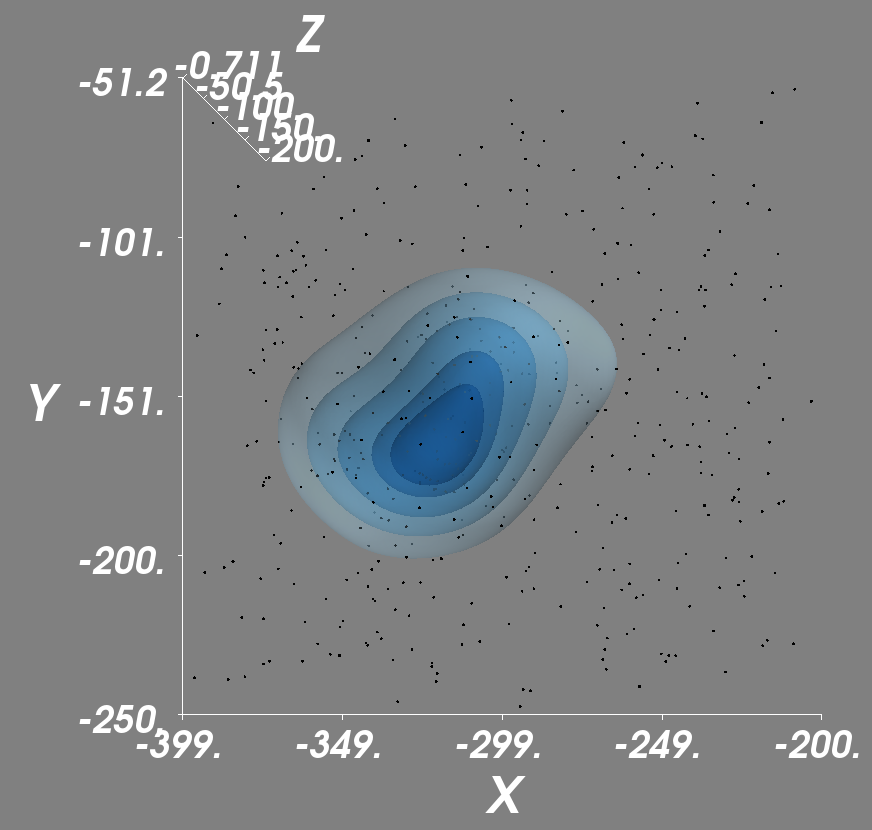
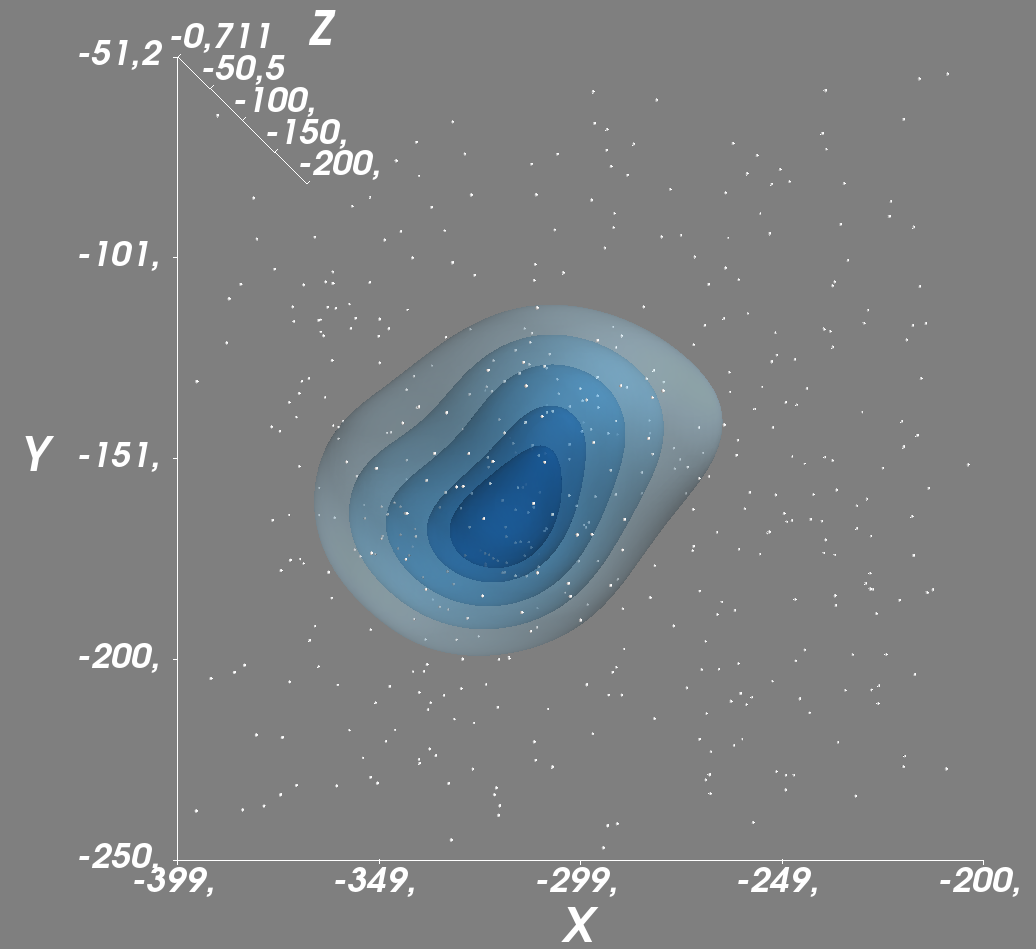
Analyzing kinematics

diff --git a/UVW-KDE-Dens-Masked.py b/UVW-KDE-Dens-Masked.py
@@ -4,6 +4,7 @@ from astropy.units import Quantity
 from astropy.table import Table
 from sklearn.neighbors import KernelDensity
 from mayavi import mlab
+import matplotlib.pyplot as plt
 import astropy.coordinates as asc
 import numpy as np
 import random
@@ -31,7 +32,7 @@ positions = np.vstack([VX.ravel(), VY.ravel(), VZ.ravel()])
 dens = np.reshape(np.exp(kde_fit.score_samples(positions.T)), VX.shape)
 """
 
-readresults_OD = Table.read('Velacontour4.5e10-7.dat',format='ascii')
+readresults_OD = Table.read('Data/OBRegions/A-OB-vrad-maxvtan40-mean_AG_EBminR/Orioncontour6.0e10-7.dat',format='ascii')
 results_OD = np.array(readresults_OD)
 
 x_OD, y_OD, z_OD, vx_OD, vy_OD, vz_OD = results_OD['xg'], results_OD['yg'], results_OD['zg'], results_OD['vx']+14.0, results_OD['vy']+12.24, results_OD['vz']+7.25
@@ -53,12 +54,29 @@ dens_OD = np.reshape(np.exp(kde_fit_OD.score_samples(positions_OD.T)), VX_OD.sha
 figure = mlab.figure('myfig')
 figure.scene.disable_render = True # Super duper trick
 #mlab.contour3d(VX, VY, VZ, dens, contours=[0.25*10**-5,0.5*10**-5,1*10**-5,2*10**-5,2.5*10**-5,3*10**-5], opacity=0.3, colormap = 'Blues', figure = figure)
-mlab.contour3d(VX_OD, VY_OD, VZ_OD, dens_OD, contours=[0.1*10**-4,0.5*10**-4,1*10**-4,1.5*10**-4,2*10**-4,2.5*10**-4], opacity=0.3, vmin=np.min(dens_OD), vmax=np.max(dens_OD), colormap = 'Reds', figure = figure)
-mlab.axes(xlabel='U (km/s)', ylabel='V (km/s)', zlabel='W (km/s)', nb_labels = 3, figure = figure)
+mlab.contour3d(VX_OD, VY_OD, VZ_OD, dens_OD, contours=[0.1*10**-4,0.5*10**-4,1*10**-4,1.5*10**-4,2*10**-4,2.5*10**-4,5*10**-4], opacity=0.3, vmin=np.min(dens_OD), vmax=np.max(dens_OD), colormap = 'Reds', figure = figure)
+mlab.axes(xlabel='U (km/s)', ylabel='V (km/s)', zlabel='W (km/s)', nb_labels = 5, figure = figure)
 #mlab.quiver3d(x, y, z, vx, vy, vz)
 
 #mlab.axes(extent = [-650, 650, -650, 650, -650, 650], ranges = [-650, 650, -650, 650, -650, 650], nb_labels = 7, figure = figure)
-mlab.points3d(vx_OD, vy_OD, vz_OD, np.full(len(vx_OD),1), scale_factor = 1, color=(0,0,0), figure = figure)
+mlab.points3d(vx_OD, vy_OD, vz_OD, np.full(len(vx_OD),1), scale_factor = 1, color=(1,1,1), figure = figure)
+
 
 figure.scene.disable_render = False # Super duper trick
 mlab.show()
+
+fig, axs = plt.subplots(1, 3, sharey=True, tight_layout=True)
+
+# We can set the number of bins with the `bins` kwarg
+axs[0].hist(vx_OD, bins=10)
+axs[1].hist(vy_OD, bins=10)
+axs[2].hist(vz_OD, bins=10)
+
+xlabel = ['U (km/s)', 'V (km/s)', 'W (km/s)']
+ticks = [range(-40,100,20), range(-50,50,25), range(-20,30,10)]
+i=0
+for ax in axs:
+    ax.set(xlabel=xlabel[i], ylabel='Counts', xticks = ticks[i])
+    i+=1
+
+plt.savefig('1D-Histograms-UVW-Orioncontour6.0e10-7.png')

diff --git a/KDE-Dens-Masked.py b/KDE-Dens-Masked.py
@@ -17,7 +17,7 @@ x_OB, y_OB, z_OB = ob['xg'], ob['yg'], ob['zg']
 OB_Names = ob['OB_Names']
 """
 
-readresults2 = Table.read('Data/OBRegions/A-OB-vrad-maxvtan40-mean_AG_EBminR/ScoCencontour7.5e10-8.dat',format='ascii')
+readresults2 = Table.read('Data/OBRegions/A-OB-vrad-maxvtan40-mean_AG_EBminR/Velacontour2.0e10-7.dat',format='ascii')
 results2 = np.array(readresults2)
 
 x_OD, y_OD, z_OD, vx_OD, vy_OD, vz_OD = results2['xg'], results2['yg'], results2['zg'], results2['vx']+14.0, results2['vy']+12.24, results2['vz']+7.25
@@ -31,11 +31,11 @@ results = np.array(readresults)
 x, y, z, vx, vy, vz = results['xg'], results['yg'], results['zg'], results['vx'], results['vy'], results['vz']
 
 xmin=-150
-xmax=200
-ymin=-275
-ymax=75
-zmin=-175
-zmax=175
+xmax=50
+ymin=-500
+ymax=-300
+zmin=-100
+zmax=100
 
 x_cube = x[np.where((x>=xmin)&(x<=xmax)&(y>=ymin)&(y<=ymax)&(z>=zmin)&(z<=zmax))]
 y_cube = y[np.where((x>=xmin)&(x<=xmax)&(y>=ymin)&(y<=ymax)&(z>=zmin)&(z<=zmax))]
@@ -61,12 +61,12 @@ w = int(boxes.imag/2)
 figure = mlab.figure('myfig')
 figure.scene.disable_render = True # Super duper trick
 #mlab.contour3d(X, Y, Z, dens, extent = [-650, 650, -650, 650, -650, 650], opacity=0.3, colormap = 'Blues', figure = figure)
-mlab.contour3d(X, Y, Z, dens, contours=[7.5*10**-8,8*10**-8,10*10**-8,12*10**-8], opacity=0.3, vmin=np.min(dens), vmax=np.max(dens), colormap = 'Blues', figure = figure)
+mlab.contour3d(X, Y, Z, dens, contours=[2*10**-7,2.5*10**-7,3.5*10**-7,4.5*10**-7,5.0*10**-7,5.5*10**-7], opacity=0.3, vmin=np.min(dens), vmax=np.max(dens), colormap = 'Blues', figure = figure)
 #mlab.contour3d(X_OD, Y_OD, Z_OD, dens_OD, contours=[1*10**-8,2*10**-8,5*10**-8,8*10**-8,11*10**-8], opacity=0.3, vmin=np.min(dens_OD), vmax=np.max(dens_OD), colormap = 'Reds', figure = figure)
 mlab.quiver3d(x_OD, y_OD, z_OD, vx_OD, vy_OD, vz_OD)
 #mlab.axes(extent = [-650, 650, -650, 650, -650, 650], ranges = [-650, 650, -650, 650, -650, 650], nb_labels = 7, figure = figure)
 #mlab.points3d(x_OB, y_OB, z_OB, np.full(len(x_OB),10), scale_factor=2, figure = figure)
-#mlab.points3d(x_cube, y_cube, z_cube, np.full(len(x_cube),1), scale_factor = 1, color=(0,0,0), figure = figure)
+#mlab.points3d(x_cube, y_cube, z_cube, np.full(len(x_cube),1), scale_factor = 1, color=(1,1,1), figure = figure)
 mlab.points3d(x_OD, y_OD, z_OD, np.full(len(x_OD),1), scale_factor = 1, color=(1,1,1), figure = figure)
 mlab.axes(nb_labels = 5, figure = figure)
 #for i in range(len(x_OB)):
